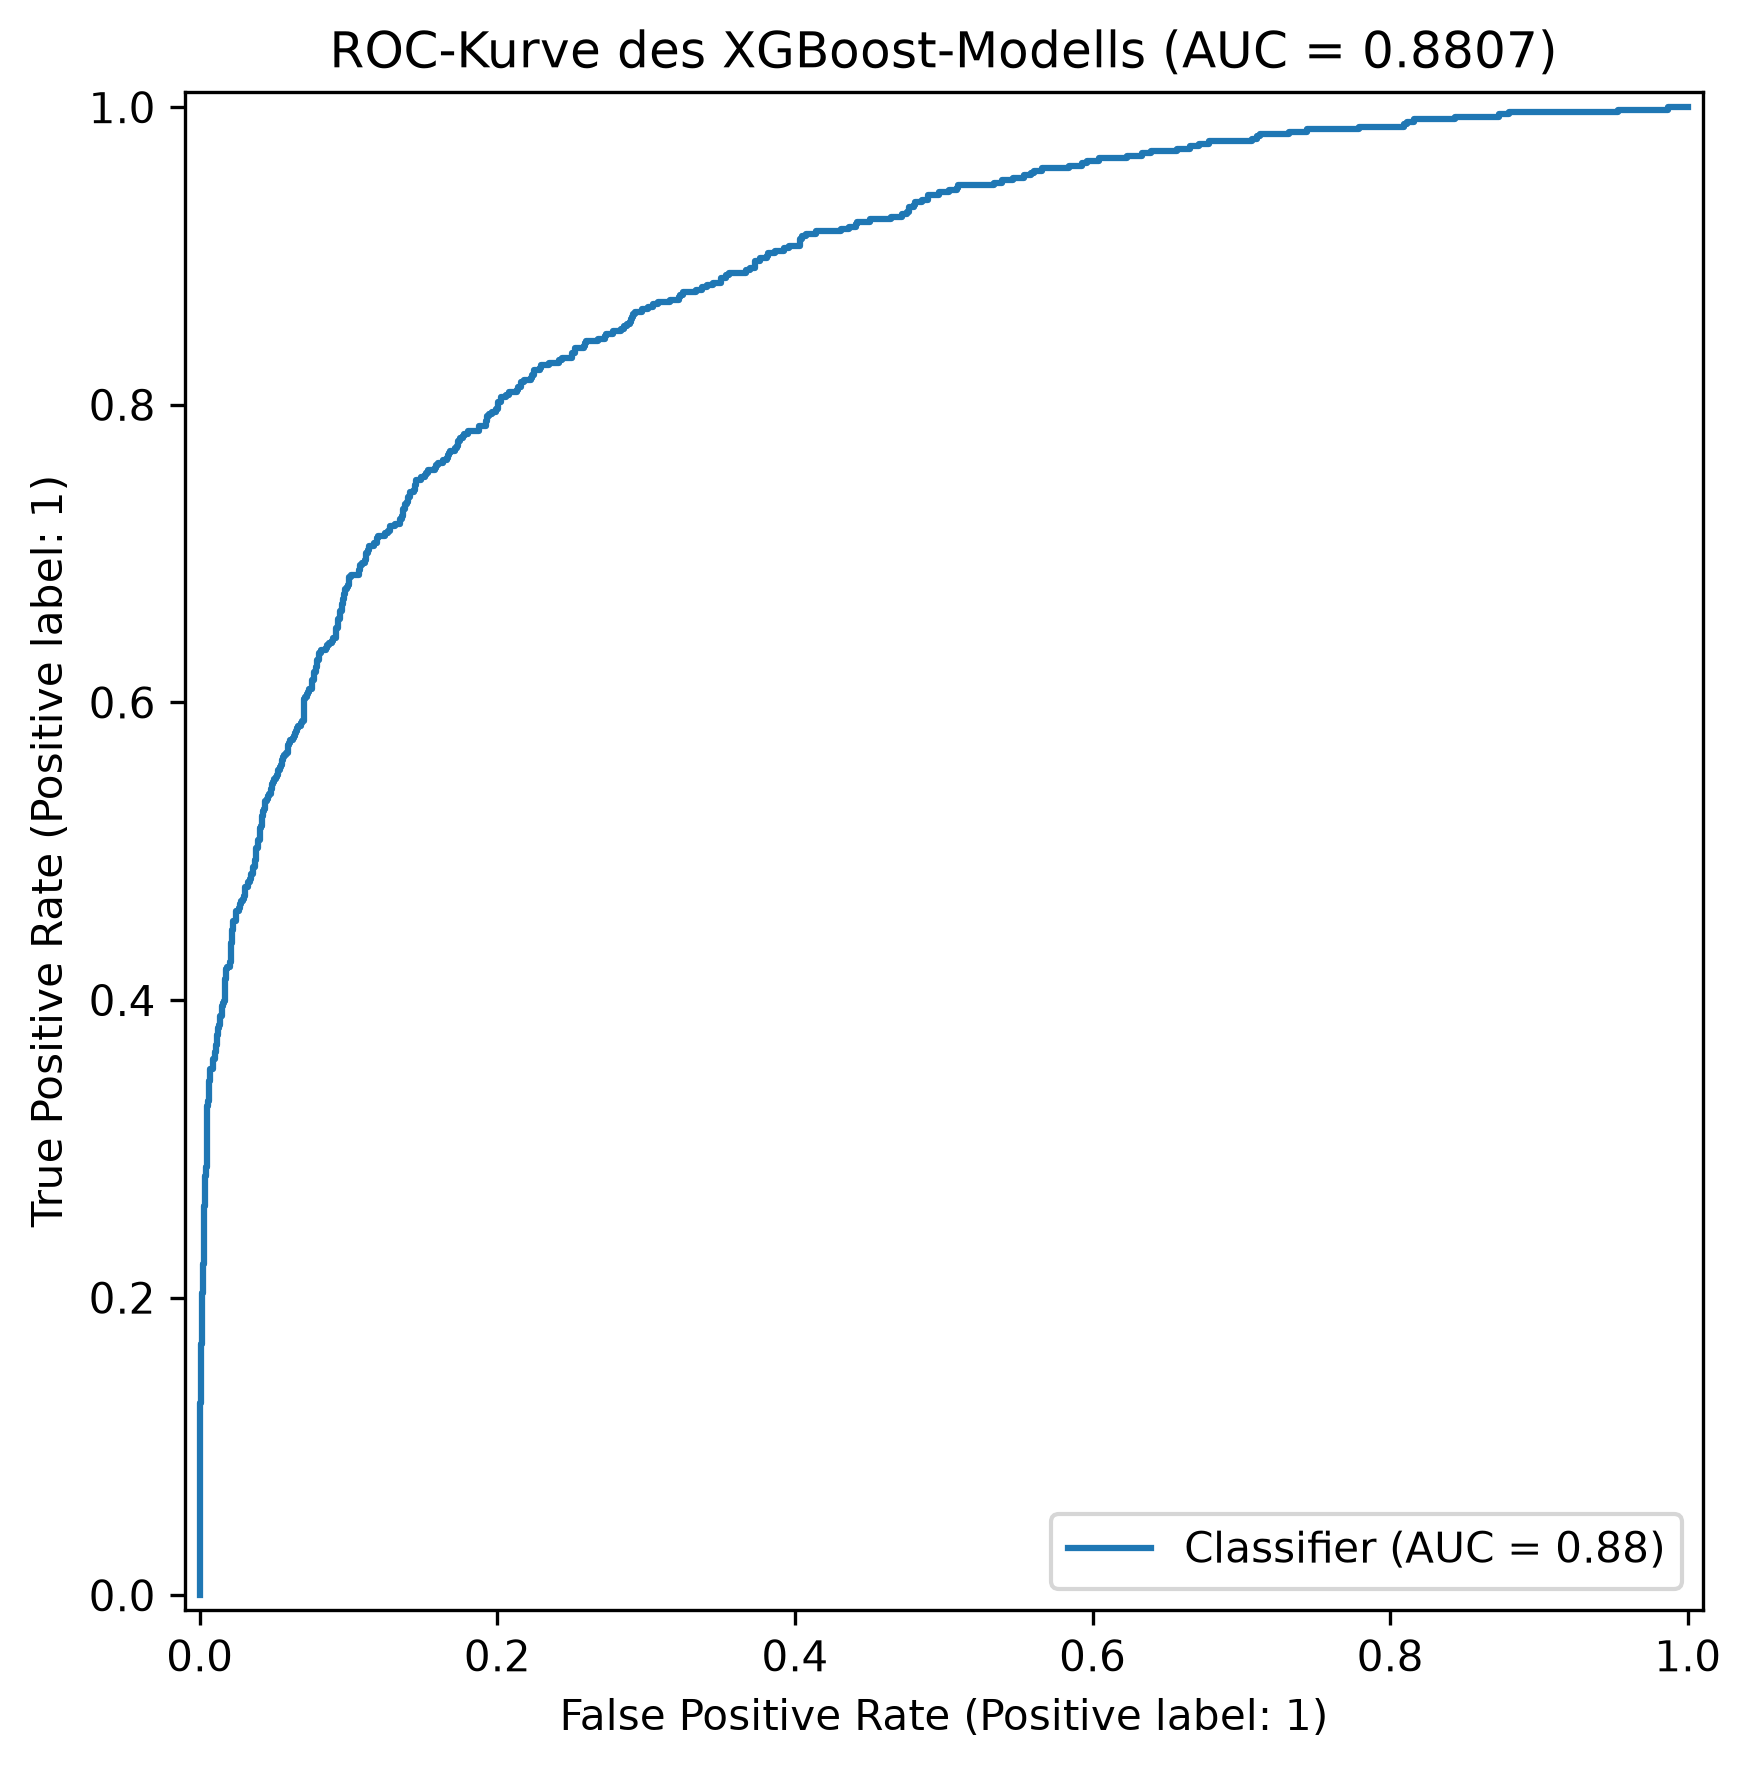
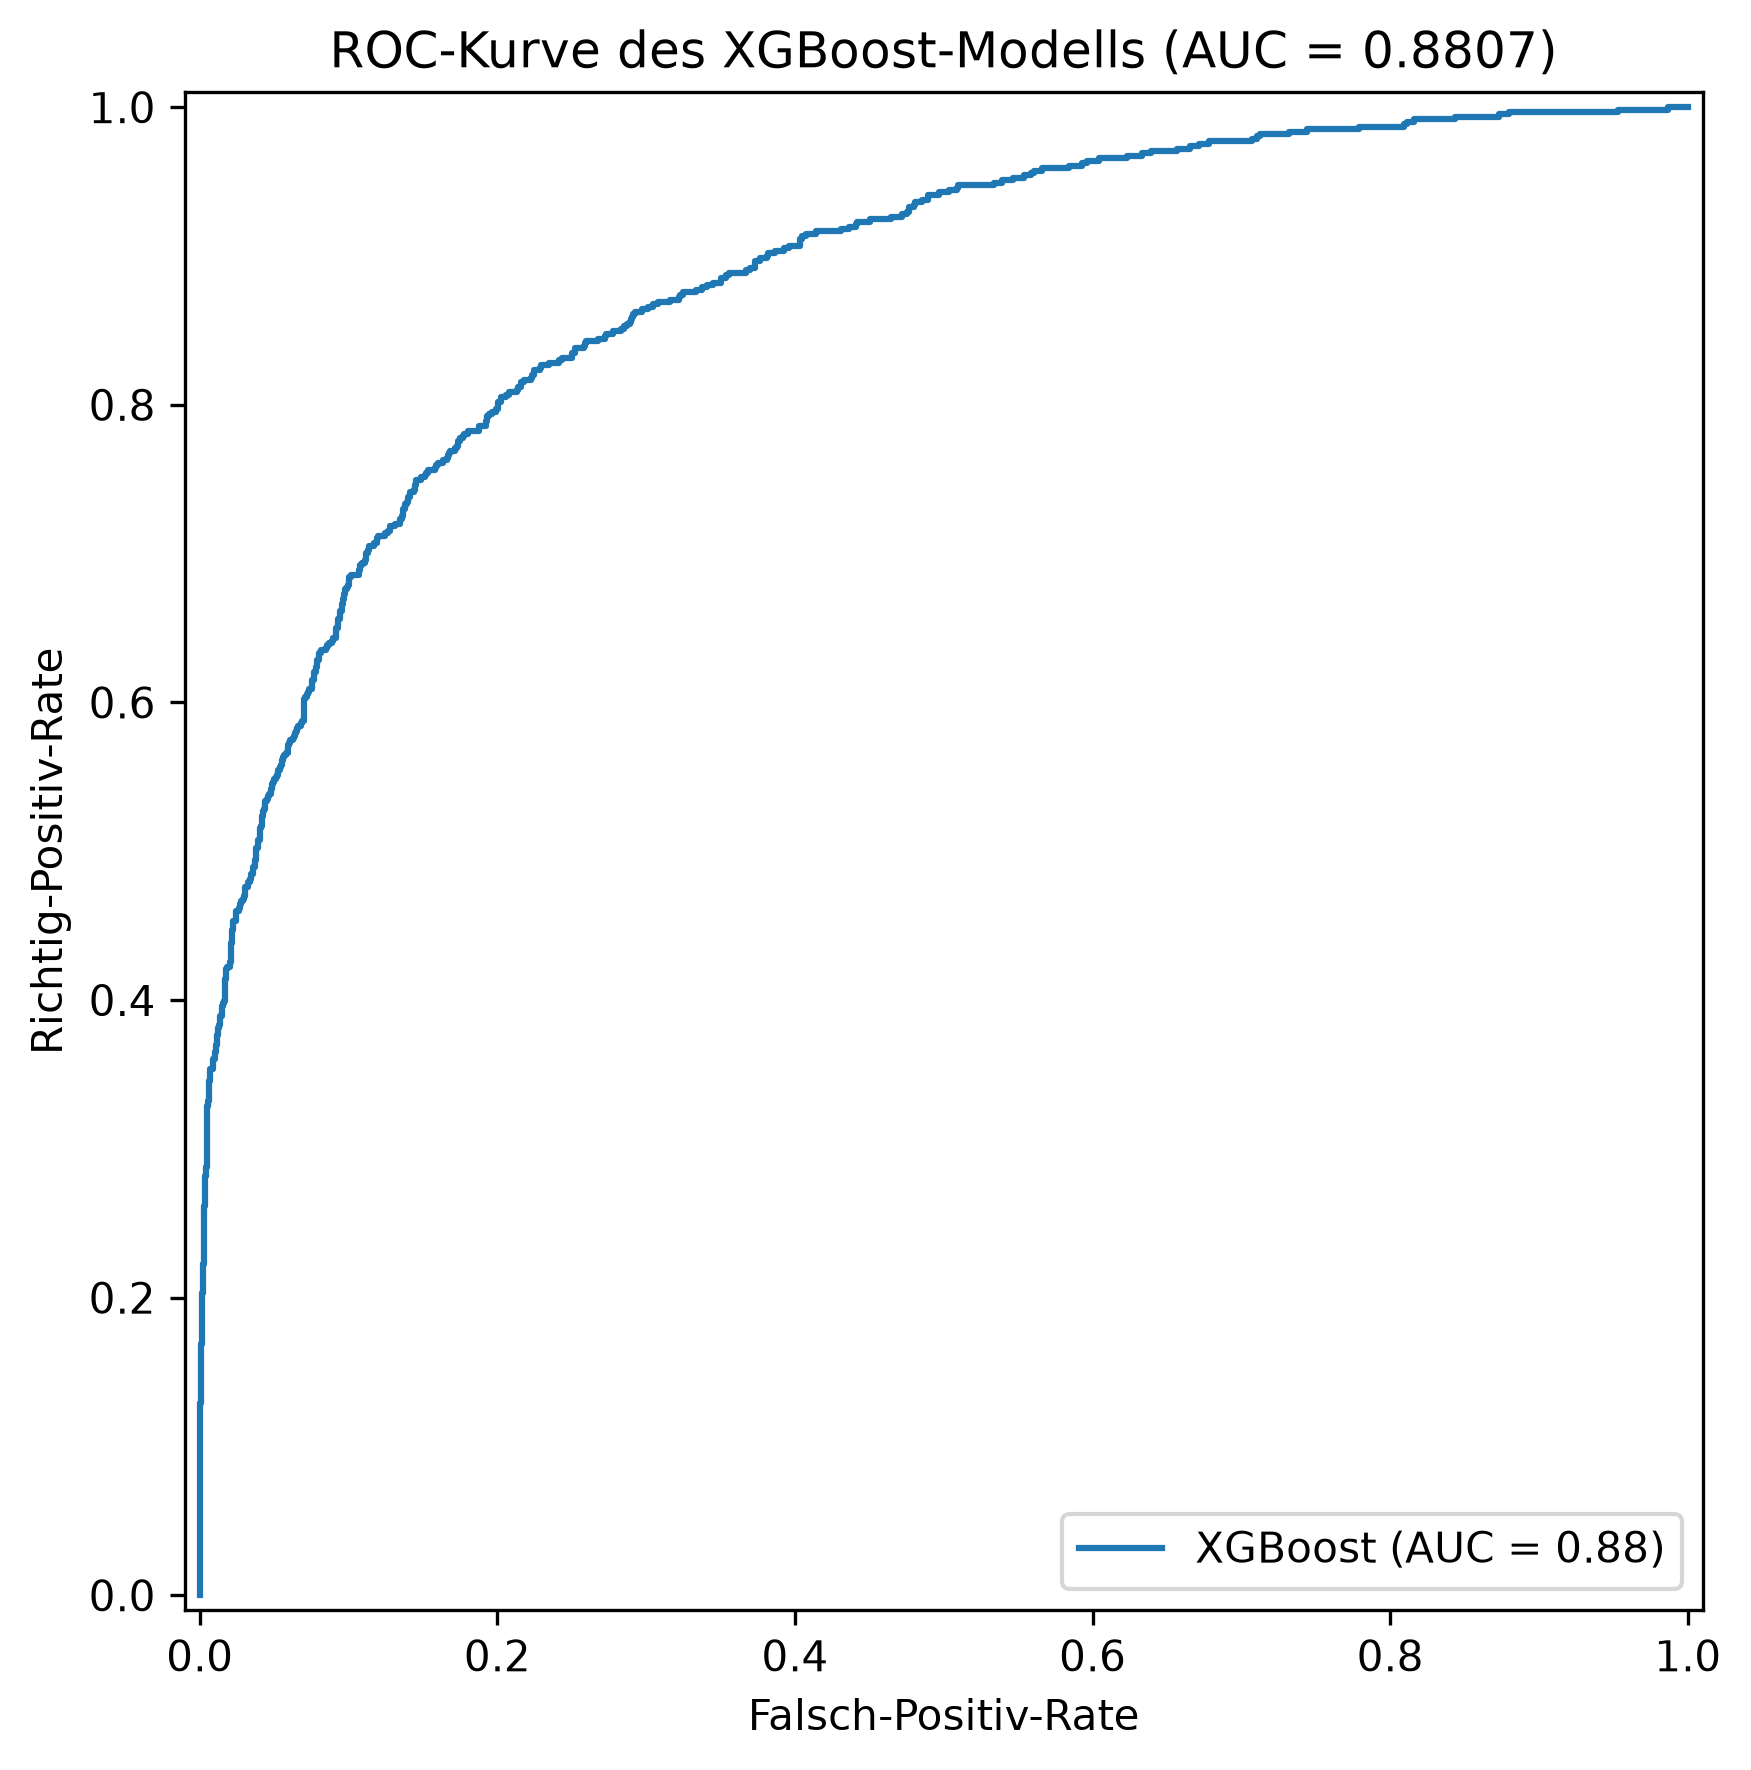
Update implementation code and fully integrate stable SHAP scenarios

diff --git a/prototype/app.py b/prototype/app.py
@@ -44,17 +44,17 @@ def shap_analysator_erstellen():
     return shap.TreeExplainer(finales_modell)
 
 # Header der Webseite aufbauen
-st.title("🏦 Kundenabwanderung Vorhersage-System")
+st.title("🏦 Vorhersagesystem für Kundenabwanderung")
 
 st.subheader(
     "KI-gestütztes Dashboard zur Vorhersage "
-    "und Erklärung von Kunden-Churn"
+    "und Erklärung von Kundenabwanderung"
 )
 
 st.write(
     "Dieser funktionale Prototyp verwendet ein trainiertes "
-    "XGBoost-Modell zur Schätzung der Abwanderungswahrscheinlichkeit. "
-    "SHAP wird eingesetzt, um die individuelle Modellentscheidung "
+    "XGBoost-Modell zur Berechnung eines modellbasierten Churn-Scores. "
+    "SHAP wird eingesetzt, um die individuelle Modellvorhersage "
     "verständlich zu erklären."
 )
 
@@ -169,7 +169,7 @@ neuer_kunde_df = pd.DataFrame({
 
 st.divider()
 
-st.header("2. Analyse der Abwanderungsgefahr")
+st.header("2. Analyse des Abwanderungsrisikos")
 
 # Berechnung starten bei Button-Klick
 if st.button(
@@ -220,8 +220,8 @@ if st.button(
 
     with res_spalte1:
         st.metric(
-            "Churn-Wahrscheinlichkeit",
-            f"{prozent_wahrscheinlichkeit:.2f}%"
+            "Modellbasierter Churn-Score",
+            f"{prozent_wahrscheinlichkeit:.2f}".replace(".", ",") + " %"
         )
 
     with res_spalte2:
@@ -248,8 +248,10 @@ if st.button(
     )
 
     st.caption(
-        "Die Prozentzahl entspricht der vom XGBoost-Modell "
-        "geschätzten Wahrscheinlichkeit einer Abwanderung."
+        "Der angezeigte Wert ist ein modellbasierter Churn-Score. "
+        "Da keine gesonderte Wahrscheinlichkeitskalibrierung "
+        "durchgeführt wurde, ist er nicht als empirisch kalibrierte "
+        "Abwanderungswahrscheinlichkeit zu interpretieren."
     )
 
     # SHAP-Erklärung aufbauen
@@ -259,7 +261,7 @@ if st.button(
 
     st.write(
         "SHAP zeigt, welche Merkmale die individuelle "
-        "Modellentscheidung beeinflussen und ob sie das "
+        "Modellvorhersage beeinflussen und ob sie das "
         "Churn-Risiko erhöhen oder reduzieren."
     )
 
@@ -302,7 +304,7 @@ if st.button(
         # Merkmalsnamen und Anzeigewerte für das Dashboard
         bereinigte_features = [
             (
-                "Credit Score",
+                "Kredit-Score",
                 shap_dict.get(
                     "numeric__CreditScore",
                     0.0
@@ -331,7 +333,7 @@ if st.button(
                     "numeric__Balance",
                     0.0
                 ),
-                f"{kontostand_wert:,.0f} €"
+                f"{kontostand_wert:,.0f} €".replace(",", ".")
             ),
             (
                 "Anzahl Produkte",
@@ -363,10 +365,10 @@ if st.button(
                     "numeric__EstimatedSalary",
                     0.0
                 ),
-                f"{gehalt_geschaetzt:,.0f} €"
+                f"{gehalt_geschaetzt:,.0f} €".replace(",", ".")
             ),
             (
-                "Herkunft",
+                "Geografische Region",
                 geo_shap_total,
                 laender_anzeige[herkunftsland]
             ),
@@ -450,17 +452,15 @@ if st.button(
             feature_names=display_names
         )
 
-        fig_waterfall, ax_wf = plt.subplots(
-            figsize=(10, 6.5)
-        )
-
         shap.plots.waterfall(
             waterfall_erklaerung,
             max_display=10,
             show=False
         )
 
-        plt.tight_layout()
+        fig_waterfall = plt.gcf()
+        fig_waterfall.set_size_inches(12, 8)
+        fig_waterfall.tight_layout(pad=2.0)
 
         st.pyplot(
             fig_waterfall,
@@ -502,7 +502,7 @@ if st.button(
 
         # Methodischer Hinweis am Ende
         st.info(
-            "Hinweis: SHAP erklärt die Modellentscheidung. "
+            "Hinweis: SHAP erklärt die Modellvorhersage. "
             "Ein positiver SHAP-Wert erhöht den Beitrag "
             "zur Churn-Klasse, während ein negativer SHAP-Wert "
             "den Beitrag zur Churn-Klasse reduziert. "
@@ -523,7 +523,7 @@ if st.button(
 st.divider()
 
 st.caption(
-    "Prototyp – Bank Customer Churn Prediction | "
-    "XGBoost + SHAP | Bachelor Thesis"
+    "Prototyp zur Vorhersage von Bankkundenabwanderung | "
+    "XGBoost + SHAP | Bachelorarbeit"
 )
 

diff --git a/evaluate_model.py b/evaluate_model.py
@@ -49,10 +49,13 @@ with open("prototype/model/final_transformer.pkl", "rb") as datei:
 # Testdaten transformieren und Vorhersagen berechnen
 test_daten_bereit = eval_transformer.transform(X_test)
 
-vorhersage_labels = eval_klassifikator.predict(test_daten_bereit)
 abwanderung_scores = eval_klassifikator.predict_proba(
     test_daten_bereit
 )[:, 1]
+
+vorhersage_labels = (
+    abwanderung_scores >= 0.50
+).astype(int)
 
 # Kennzahlen
 wert_accuracy = accuracy_score(y_test, vorhersage_labels)
@@ -101,6 +104,8 @@ ConfusionMatrixDisplay(
 ).plot(ax=ax_matrix)
 
 ax_matrix.set_title("Konfusionsmatrix des XGBoost-Modells")
+ax_matrix.set_xlabel("Vorhergesagte Klasse")
+ax_matrix.set_ylabel("Tatsächliche Klasse")
 plt.tight_layout()
 plt.savefig(
     "prototype/confusion_matrix.png",
@@ -115,12 +120,15 @@ fig_roc, ax_roc = plt.subplots(figsize=(7, 6))
 RocCurveDisplay.from_predictions(
     y_test,
     abwanderung_scores,
-    ax=ax_roc
+    ax=ax_roc,
+    name="XGBoost"
 )
 
 ax_roc.set_title(
     f"ROC-Kurve des XGBoost-Modells (AUC = {wert_auc:.4f})"
 )
+ax_roc.set_xlabel("Falsch-Positiv-Rate")
+ax_roc.set_ylabel("Richtig-Positiv-Rate")
 plt.tight_layout()
 plt.savefig(
     "prototype/roc_curve.png",
@@ -133,3 +141,4 @@ print("\nEvaluation abgeschlossen.")
 print("Gespeicherte Dateien:")
 print("- prototype/confusion_matrix.png")
 print("- prototype/roc_curve.png")
+
